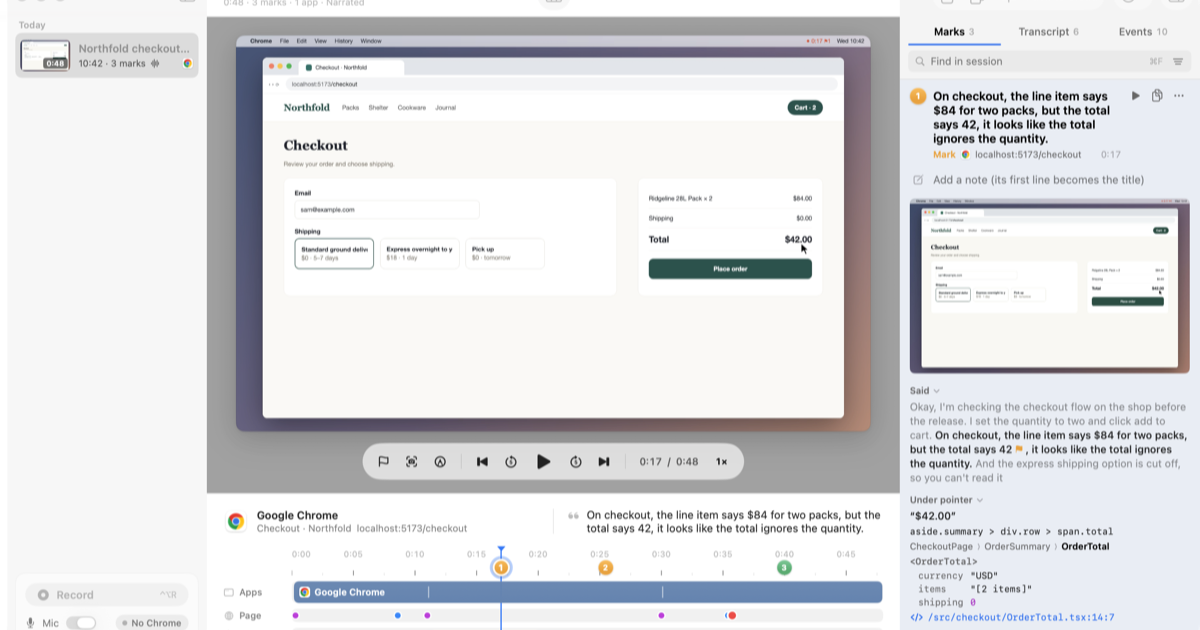
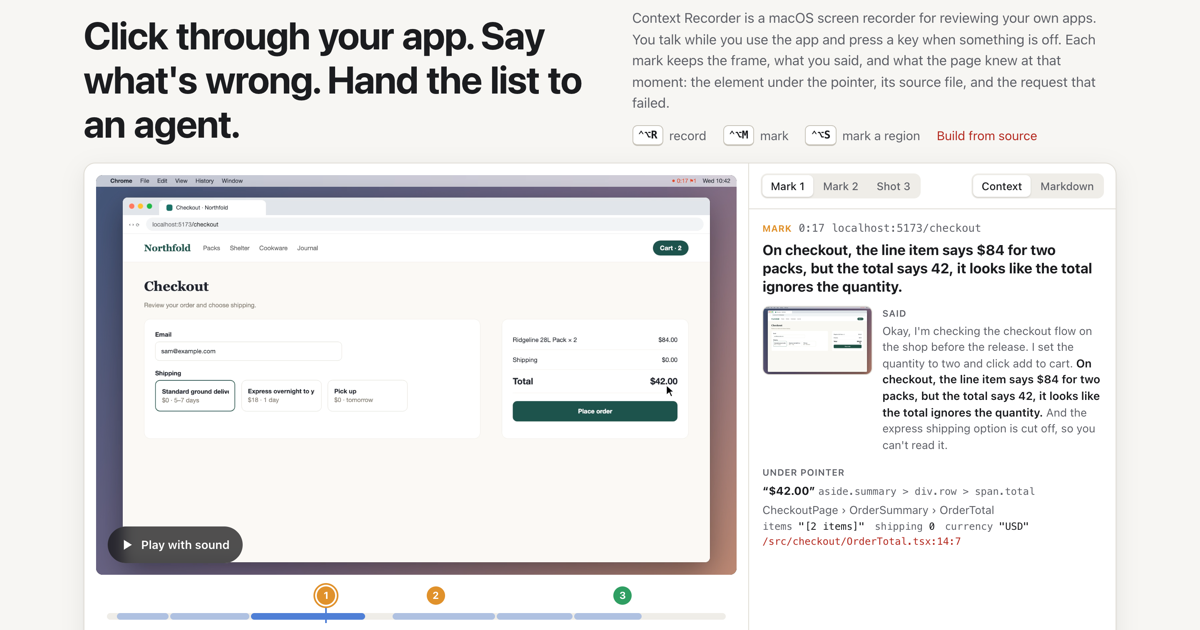
fix(site): 100x craft pass on the home page (#72)
Full-size view opens fitted, zooms on click and pans on drag. The player
shows each mark's frame when the video fails to load, and a rail seek
selects the mark at that time. Tabs move with arrow keys. Markdown has a
file bar and light highlighting. Code blocks lose the double line height,
copy buttons keep their width, and the Build command no longer wraps
mid-word. The hero tracking, key groups and lede measure are fixed, the
player stays side by side down to 900 px, and the phone layout no longer
cuts the inspector. The preview server supports Range requests, so the
video seeks locally. og.png shows the new hero.

diff --git a/site/site.css b/site/site.css
@@ -57,7 +57,7 @@ h1, h2, h3 { margin: 0; line-height: 1.15; letter-spacing: -.02em; }
 h2 { font-size: 30px; }
 h3 { font-size: 15px; letter-spacing: 0; }
 kbd {
-  display: inline-block; min-width: 24px; padding: 1px 6px; margin-right: 5px;
+  display: inline-block; min-width: 24px; padding: 1px 6px;
   font: 600 13px/20px var(--mono); text-align: center; color: var(--text);
   background: var(--panel); border: 1px solid var(--line-strong); border-bottom-width: 2px; border-radius: 6px;
 }
@@ -79,10 +79,10 @@ main > section + section { border-top: 1px solid var(--line); }
 /* Hero */
 .hero { padding-top: 28px !important; }
 .hero-copy { display: grid; grid-template-columns: minmax(0, 1.05fr) minmax(0, 1fr); gap: 14px 48px; align-items: end; margin-bottom: 20px; }
-.hero h1 { font-size: clamp(32px, 4vw, 46px); letter-spacing: -.035em; grid-row: span 2; }
-.lede { margin: 0; color: var(--muted); font-size: 16.5px; }
-.keys { margin: 0; color: var(--muted); font-size: 15px; display: flex; flex-wrap: wrap; align-items: center; gap: 6px 10px; }
-.keys .sep { color: var(--line-strong); }
+.hero h1 { font-size: clamp(32px, 4vw, 46px); letter-spacing: -.025em; word-spacing: .04em; grid-row: span 2; }
+.lede { margin: 0; color: var(--muted); font-size: 16.5px; max-width: 62ch; }
+.keys { margin: 0; color: var(--muted); font-size: 15px; display: flex; flex-wrap: wrap; align-items: center; gap: 8px 20px; }
+.keys > span { display: inline-flex; align-items: center; gap: 7px; white-space: nowrap; }
 
 /* Player */
 .player {
@@ -113,10 +113,11 @@ main > section + section { border-top: 1px solid var(--line); }
   border: 2px solid var(--panel); color: #fff; font: 700 12px/1 -apple-system, system-ui, sans-serif; background: var(--mark);
 }
 .lane.marks button.screenshot { background: var(--shot); }
-.lane.marks button[aria-selected=true] { box-shadow: 0 0 0 2px var(--text); }
+.lane.marks button.on { border-color: var(--panel); box-shadow: 0 0 0 2px var(--mark); }
+.lane.marks button.screenshot.on { box-shadow: 0 0 0 2px var(--shot); }
 .playhead { position: absolute; top: 0; bottom: 0; width: 2px; margin-left: -1px; background: var(--voice); pointer-events: none; }
-.caption { display: flex; gap: 12px; margin: 10px 4px 0; height: 48px; overflow: hidden; font-size: 15px; line-height: 24px; }
-.caption .time { font: 600 13px/24px var(--mono); color: var(--muted); flex: none; width: 36px; }
+.caption { display: flex; align-items: baseline; gap: 12px; margin: 10px 4px 0; height: 48px; overflow: hidden; font-size: 15px; line-height: 24px; }
+.caption .time { font: 600 13px/24px var(--mono); color: var(--muted); flex: none; width: 36px; font-variant-numeric: tabular-nums; }
 
 /* The inspector matches the stage's height and scrolls inside. */
 .inspector { display: flex; flex-direction: column; min-width: 0; height: 0; min-height: 100%; }
@@ -130,7 +131,11 @@ main > section + section { border-top: 1px solid var(--line); }
   background: var(--panel); color: var(--text); box-shadow: 0 1px 2px rgba(0, 0, 0, .14);
 }
 .ins-body { flex: 1; min-height: 0; overflow: auto; padding: 14px 16px; }
-.ins-foot { margin: 0; padding: 10px 16px; border-top: 1px solid var(--line); font-size: 13px; color: var(--muted); }
+.ins-foot { display: flex; flex-wrap: wrap; justify-content: space-between; align-items: center; gap: 4px 12px; margin: 0; padding: 10px 16px; border-top: 1px solid var(--line); font-size: 13px; color: var(--muted); }
+.ins-foot .hint { display: inline-flex; align-items: center; gap: 4px; }
+.ins-foot kbd { font-size: 11px; line-height: 16px; min-width: 20px; padding: 0 4px; }
+.ins-foot kbd + kbd { margin-left: -1px; }
+.ins-foot .hint kbd:nth-of-type(3) { margin-left: 8px; }
 
 .m-head { display: flex; gap: 8px; align-items: center; font: 13px var(--mono); color: var(--muted); min-width: 0; }
 .m-head .dim { overflow: hidden; text-overflow: ellipsis; white-space: nowrap; }
@@ -138,7 +143,7 @@ main > section + section { border-top: 1px solid var(--line); }
 .m-kind.screenshot { color: var(--shot); }
 .m-title { font-size: 17px; line-height: 1.3; margin: 6px 0 12px; }
 .m-grid { display: grid; grid-template-columns: 132px minmax(0, 1fr); gap: 12px; }
-.thumb { padding: 0; border: 1px solid var(--line); border-radius: 6px; overflow: hidden; background: var(--tint); align-self: start; cursor: zoom-in; }
+.thumb { padding: 0; border: 1px solid var(--line); border-radius: 8px; overflow: hidden; background: var(--tint); align-self: start; cursor: zoom-in; }
 .thumb img { display: block; width: 100%; height: auto; }
 .said { font-size: 13.5px; color: var(--muted); line-height: 1.45; }
 .said b { color: var(--text); font-weight: 600; }
@@ -149,31 +154,38 @@ main > section + section { border-top: 1px solid var(--line); }
 .prob .tag { font: 700 12px var(--mono); color: var(--bad); }
 .prob .body { font: 12px/1.4 var(--mono); color: var(--muted); margin-top: 2px; }
 .dim { color: var(--muted); }
-.el { word-break: break-word; margin-bottom: 2px; }
+.el { word-break: break-word; }
+.el + .el, .chain, .props, .src { margin-top: 2px; }
 .el code { color: var(--muted); font-size: 12px; }
 .chain { color: var(--muted); }
 .props { display: flex; flex-wrap: wrap; gap: 2px 12px; font: 12px var(--mono); }
 .props .k { color: var(--muted); }
-.src { display: inline-block; font: 12px var(--mono); color: var(--link); }
+.src { display: block; font: 12px/1.5 var(--mono); color: var(--link); }
+.el .src { display: inline; }
 
-pre { margin: 0; overflow: auto; background: var(--code-bg); border-radius: 8px; }
-pre code { font-size: 12.5px; line-height: 1.5; }
-pre.md { white-space: pre-wrap; word-break: break-word; padding: 12px 14px; }
-.view[data-view=markdown] { position: relative; }
-.view[data-view=markdown] .copy { position: absolute; top: 6px; right: 6px; }
+pre { margin: 0; overflow: auto; background: var(--code-bg); border-radius: 8px; font: 12.5px/1.55 var(--mono); }
+pre code { font: inherit; }
+pre.md { white-space: pre-wrap; word-break: break-word; padding: 12px 14px; color: var(--muted); border-radius: 0 0 8px 8px; }
+pre.md b { color: var(--text); font-weight: 600; }
+pre.md .mk { opacity: .55; }
+pre.md .ic { color: var(--text); }
+.md-bar { display: flex; align-items: center; justify-content: space-between; gap: 8px; padding: 6px 6px 6px 14px; background: var(--code-bg); border-bottom: 1px solid var(--line); border-radius: 8px 8px 0 0; }
+.md-bar code { font-size: 12px; color: var(--muted); }
 
 /* Copy buttons: the label turns into a check for a moment, at the same width. */
 .copy {
-  height: 26px; min-width: 64px; padding: 0 10px; border-radius: 6px; border: 1px solid var(--line-strong);
+  height: 26px; width: 84px; padding: 0; text-align: center; flex: none; border-radius: 6px; border: 1px solid var(--line-strong);
   background: var(--panel); color: var(--text); font: 500 13px/24px -apple-system, system-ui, sans-serif;
 }
 .copy.done { color: var(--shot); border-color: var(--shot); }
 .copy.done span { font-size: 0; }
 .copy.done span::after { content: "✓ Copied"; font-size: 13px; }
 .cmd { position: relative; max-width: 720px; }
-.cmd pre { padding: 12px 96px 12px 14px; white-space: pre-wrap; overflow-wrap: anywhere; }
-.cmd pre code { font-size: 13.5px; }
-.cmd .copy { position: absolute; top: 8px; right: 8px; }
+.cmd pre { padding: 12px 104px 12px 14px; font-size: 13.5px; }
+.cmd > .copy { position: absolute; top: 8px; right: 8px; }
+.cmd.stacked pre { padding-right: 14px; }
+.cmd-head { display: flex; align-items: center; justify-content: space-between; margin-bottom: 8px; }
+.cmd-head h3 { margin: 0; }
 
 /* Sections */
 .sec-head { max-width: 760px; margin-bottom: 22px; }
@@ -200,22 +212,33 @@ pre.md { white-space: pre-wrap; word-break: break-word; padding: 12px 14px; }
 .footer { display: flex; flex-wrap: wrap; gap: 8px 24px; align-items: center; padding: 24px var(--gutter) 40px; border-top: 1px solid var(--line); color: var(--muted); font-size: 14px; }
 
 /* Full-size screenshot */
-.zoom { padding: 0; border: 0; background: transparent; max-width: 96vw; max-height: 94vh; overflow: auto; }
-.zoom::backdrop { background: rgba(10, 10, 12, .84); }
-.zoom img { display: block; width: min(2880px, 160vw); height: auto; border-radius: 8px; }
+.zoom { padding: 0; border: 0; margin: 0; width: 100vw; height: 100vh; max-width: none; max-height: none; background: transparent; overflow: hidden; }
+.zoom::backdrop { background: rgba(10, 10, 12, .88); }
+.zwrap { width: 100%; height: 100%; overflow: auto; display: grid; place-items: center; overscroll-behavior: contain; user-select: none; }
+.zwrap img { display: block; max-width: 94vw; max-height: calc(100vh - 80px); border-radius: 8px; cursor: zoom-in; -webkit-user-drag: none; }
+.zoom.zoomed .zwrap { place-items: start; cursor: grab; }
+.zoom.zoomed .zwrap img { max-width: none; max-height: none; width: 200vw; cursor: zoom-out; margin: 40px; }
+.zhint { position: fixed; left: 50%; bottom: 14px; translate: -50% 0; margin: 0; padding: 4px 12px; border-radius: 14px; background: rgba(20, 20, 22, .8); color: #ddd; font-size: 13px; pointer-events: none; }
 .zoom .close {
   position: fixed; top: 16px; right: 16px; width: 40px; height: 40px; border-radius: 50%; border: 0;
   background: rgba(255, 255, 255, .92); color: #111; font-size: 24px; line-height: 40px;
 }
 
-@media (max-width: 1100px) {
+@media (max-width: 1180px) {
+  .player { grid-template-columns: minmax(0, 1fr) 360px; }
+  .ins-head { flex-wrap: wrap; }
+  .m-grid { grid-template-columns: 96px minmax(0, 1fr); }
+  .install-grid, .features { grid-template-columns: repeat(2, minmax(0, 1fr)); }
+  .install-grid > :last-child { grid-column: 1 / -1; }
+}
+
+@media (max-width: 900px) {
   .player { grid-template-columns: minmax(0, 1fr); }
   .stage { border-right: 0; border-bottom: 1px solid var(--line); }
   .inspector { height: auto; min-height: 0; }
-  .ins-body { height: 460px; flex: none; }
+  .ins-body { flex: none; }
   .hero-copy { grid-template-columns: minmax(0, 1fr); }
   .hero h1 { grid-row: auto; }
-  .install-grid, .features { grid-template-columns: repeat(2, minmax(0, 1fr)); }
 }
 
 @media (max-width: 640px) {
@@ -228,9 +251,12 @@ pre.md { white-space: pre-wrap; word-break: break-word; padding: 12px 14px; }
   .m-grid { grid-template-columns: 96px minmax(0, 1fr); }
   .ins-head { flex-wrap: wrap; }
   .gallery { grid-template-columns: minmax(0, 1fr); }
-  .tabs { overflow-x: auto; }
+  .tabs { flex-wrap: wrap; }
+  .player .play { width: 44px; padding: 0; }
+  .player:not(.playing) .play { padding: 0; }
+  .player:not(.playing) .play::after { content: none; }
   .install-grid, .features { grid-template-columns: minmax(0, 1fr); gap: 20px; }
-  .zoom img { width: 300vw; }
+  .install-grid > :last-child { grid-column: auto; }
 }
 
 /* Controls: one state model for every button and link. */
@@ -248,3 +274,7 @@ button:active { transition-duration: 0ms; }
 .copy:active, .mark-nav button:active, .seg button:active, .tabs button:active, .play:active { scale: .97; }
 :focus-visible { outline: 2px solid var(--accent); outline-offset: 2px; }
 @media (prefers-reduced-motion: reduce) { * { transition: none !important; scroll-behavior: auto !important; } }
+
+/* Without a playable video, the stage is a still of the selected mark's frame. */
+.player.novideo .play { display: none; }
+.player.novideo video { cursor: default; }

diff --git a/site/player.js b/site/player.js
@@ -13,21 +13,62 @@ function flashCopied(btn) {
 }
 async function copy(text, btn) {
   try { await navigator.clipboard.writeText(text); flashCopied(btn); }
-  catch { getSelection()?.selectAllChildren(btn.parentElement.querySelector('code')); }
+  catch { getSelection()?.selectAllChildren(btn.closest('.cmd, .view').querySelector('pre code')); }
 }
 document.querySelectorAll('.cmd[data-copy] .copy').forEach((btn) => {
-  btn.addEventListener('click', () => copy(btn.parentElement.dataset.copy, btn));
+  btn.addEventListener('click', () => copy(btn.closest('.cmd').dataset.copy, btn));
 });
 
-// Full-size view for any screenshot.
+// Full-size view for any screenshot. It opens fitted; a click zooms to 2x at that point, and a drag pans.
 const zoom = $('zoom');
+const zimg = $('zimg');
+const zwrap = zoom.querySelector('.zwrap');
 function openZoom(src, alt) {
-  $('zimg').src = src;
-  $('zimg').alt = alt || '';
+  zimg.src = src;
+  zimg.alt = alt || '';
+  zoom.classList.remove('zoomed');
   zoom.showModal();
 }
+let drag = null;
+zwrap.addEventListener('pointerdown', (e) => {
+  if (e.button !== 0) return;
+  drag = { x: e.clientX, y: e.clientY, left: zwrap.scrollLeft, top: zwrap.scrollTop, moved: false };
+});
+zwrap.addEventListener('pointermove', (e) => {
+  if (!drag || !zoom.classList.contains('zoomed')) return;
+  const dx = e.clientX - drag.x, dy = e.clientY - drag.y;
+  if (Math.abs(dx) + Math.abs(dy) > 4) drag.moved = true;
+  zwrap.scrollLeft = drag.left - dx;
+  zwrap.scrollTop = drag.top - dy;
+});
+zwrap.addEventListener('pointerup', (e) => {
+  const moved = drag?.moved;
+  drag = null;
+  if (moved) return;
+  if (e.target !== zimg) return zoom.close();
+  const r = zimg.getBoundingClientRect();
+  const fx = (e.clientX - r.left) / r.width, fy = (e.clientY - r.top) / r.height;
+  zoom.classList.toggle('zoomed');
+  if (zoom.classList.contains('zoomed')) {
+    const z = zimg.getBoundingClientRect();
+    zwrap.scrollLeft = fx * z.width - (e.clientX - zwrap.getBoundingClientRect().left);
+    zwrap.scrollTop = fy * z.height - (e.clientY - zwrap.getBoundingClientRect().top);
+  }
+});
 $('zclose').addEventListener('click', () => zoom.close());
-zoom.addEventListener('click', (e) => { if (e.target === zoom) zoom.close(); });
+
+// Arrow keys, Home and End move between tabs in any tablist.
+document.addEventListener('keydown', (e) => {
+  const list = e.target.closest?.('[role=tablist]');
+  if (!list || !['ArrowLeft', 'ArrowRight', 'Home', 'End'].includes(e.key)) return;
+  const tabs = [...list.querySelectorAll('[role=tab]')];
+  const i = tabs.indexOf(e.target);
+  const next = { ArrowLeft: i - 1, ArrowRight: i + 1, Home: 0, End: tabs.length - 1 }[e.key];
+  const tab = tabs[(next + tabs.length) % tabs.length];
+  e.preventDefault();
+  tab.focus();
+  tab.click();
+});
 
 // Gallery of app screenshots.
 const SHOTS = {
@@ -98,18 +139,33 @@ function renderContext(mark) {
   $('context').querySelector('.thumb').addEventListener('click', (e) => openZoom(e.currentTarget.dataset.src, 'Mark ' + mark.index));
 }
 
+// Light Markdown highlighting: headings and bold labels in the text color, markup characters dimmed.
+function highlight(md) {
+  return md.split('\n').map((line) => {
+    const e = esc(line);
+    if (/^#{1,6} /.test(line)) return `<span class="mk">${e.match(/^#+/)[0]}</span><b>${e.replace(/^#+/, '')}</b>`;
+    return e
+      .replace(/^(\s*)([-*]|&gt;)( )/, '$1<span class="mk">$2</span>$3')
+      .replace(/\*\*(.+?)\*\*/g, '<span class="mk">**</span><b>$1</b><span class="mk">**</span>')
+      .replace(/`([^`]+)`/g, '<span class="mk">`</span><span class="ic">$1</span><span class="mk">`</span>');
+  }).join('\n');
+}
+
 async function renderMarkdown(mark) {
   const file = `marks/${String(mark.index).padStart(3, '0')}.md`;
+  $('mdfile').textContent = file;
   markdown[file] ??= await fetch(base + file).then((r) => r.text());
-  $('md').textContent = markdown[file];
+  if (session.marks[current] === mark) $('md').innerHTML = highlight(markdown[file]);
 }
 
 function select(i, seek) {
   current = i;
   const mark = session.marks[i];
-  document.querySelectorAll('#marknav button, #marks button').forEach((b) => b.setAttribute('aria-selected', String(+b.dataset.i === i)));
+  document.querySelectorAll('#marknav button').forEach((b) => b.setAttribute('aria-selected', String(+b.dataset.i === i)));
+  document.querySelectorAll('#marks button').forEach((b) => b.classList.toggle('on', +b.dataset.i === i));
   renderContext(mark);
   renderMarkdown(mark);
+  if (player.classList.contains('novideo')) { video.poster = base + mark.frame; last = mark.offsetSeconds; tick(); }
   $('insbody').scrollTop = 0;
   if (seek) {
     // Before the video has its metadata, a seek is dropped, so wait for it.
@@ -126,9 +182,13 @@ function setView(v) {
 document.querySelectorAll('.seg [role=tab]').forEach((b) => b.addEventListener('click', () => setView(b.dataset.view)));
 $('copymd').addEventListener('click', (e) => copy($('md').textContent, e.currentTarget));
 
+// Without a playable video (no H.264 in some browsers), the stage shows each mark's frame instead.
+const noVideo = () => { player.classList.add('novideo'); if (session) select(current, false); };
+video.addEventListener('error', noVideo);
+if (video.error) noVideo();
+
 let last = 0;
-function tick() {
-  const t = video.currentTime;
+function tick(t = player.classList.contains('novideo') ? last : video.currentTime) {
   const pct = (t / session.duration) * 100;
   $('playhead').style.left = pct + '%';
   $('clock').textContent = clock(t);
@@ -148,13 +208,16 @@ $('play').addEventListener('click', togglePlay);
 video.addEventListener('click', togglePlay);
 video.addEventListener('play', () => { player.classList.add('playing'); $('play').setAttribute('aria-label', 'Pause'); loop(); });
 video.addEventListener('pause', () => { player.classList.remove('playing'); $('play').setAttribute('aria-label', 'Play with sound'); tick(); });
-video.addEventListener('seeked', tick);
+video.addEventListener('seeked', () => tick());
 
 $('rail').addEventListener('pointerdown', (e) => {
   if (e.target.closest('button')) return;
   const r = $('rail').getBoundingClientRect();
-  video.currentTime = Math.max(0, Math.min(1, (e.clientX - r.left) / r.width)) * session.duration;
-  last = video.currentTime;
+  const t = Math.max(0, Math.min(1, (e.clientX - r.left) / r.width)) * session.duration;
+  video.currentTime = last = t;
+  // The inspector shows the last mark at or before the new time.
+  const before = session.marks.filter((m) => m.offsetSeconds <= t + 0.25);
+  select(before.length ? session.marks.indexOf(before.at(-1)) : 0, false);
   tick();
 });
 
@@ -170,9 +233,9 @@ fetch(base + 'session.json').then((r) => r.json()).then((data) => {
   session = data;
   const pos = (t) => `${(t / session.duration) * 100}%`;
   $('voice').innerHTML = session.transcript.map((s) => `<span style="left:${pos(s.start)};width:calc(${pos(s.end - s.start)} - 2px)"></span>`).join('');
-  const btn = (m, i, label) => `<button type="button" role="tab" data-i="${i}" class="${m.kind}" aria-selected="false" aria-label="Mark ${m.index} at ${clock(m.offsetSeconds)}">${label}</button>`;
-  $('marks').innerHTML = session.marks.map((m, i) => btn(m, i, m.index).replace('<button', `<button style="left:${pos(m.offsetSeconds)}"`)).join('');
-  $('marknav').innerHTML = session.marks.map((m, i) => btn(m, i, `${m.kind === 'screenshot' ? 'Shot' : 'Mark'} ${m.index}`)).join('');
+  const name = (m) => `${m.kind === 'screenshot' ? 'Shot' : 'Mark'} ${m.index}`;
+  $('marks').innerHTML = session.marks.map((m, i) => `<button type="button" tabindex="-1" data-i="${i}" class="${m.kind}" style="left:${pos(m.offsetSeconds)}" aria-label="${name(m)} at ${clock(m.offsetSeconds)}">${m.index}</button>`).join('');
+  $('marknav').innerHTML = session.marks.map((m, i) => `<button type="button" role="tab" data-i="${i}" aria-selected="false">${name(m)}</button>`).join('');
   document.querySelectorAll('#marknav button, #marks button').forEach((b) => b.addEventListener('click', () => { video.pause(); select(+b.dataset.i, true); }));
   select(0, true);
 });

diff --git a/site/index.html b/site/index.html
@@ -32,7 +32,7 @@
     <div class="hero-copy">
       <h1>Click through your app. Say what's wrong. Hand the list to an agent.</h1>
       <p class="lede">Context Recorder is a macOS screen recorder for reviewing your own apps. You talk while you use the app and press a key when something is off. Each mark keeps the frame, what you said, and what the page knew at that moment: the element under the pointer, its source file, and the request that failed.</p>
-      <p class="keys"><kbd>⌃⌥R</kbd> record <kbd>⌃⌥M</kbd> mark <kbd>⌃⌥S</kbd> mark a region <span class="sep">·</span> <a href="#install">Build from source</a></p>
+      <p class="keys"><span><kbd>⌃⌥R</kbd>record</span><span><kbd>⌃⌥M</kbd>mark</span><span><kbd>⌃⌥S</kbd>mark a region</span><a href="#install">Build from source</a></p>
     </div>
 
     <div id="demo" class="player" data-session="demo/">
@@ -60,11 +60,11 @@
         <div class="ins-body" id="insbody">
           <div class="view" data-view="context" id="context"></div>
           <div class="view" data-view="markdown" hidden>
-            <button type="button" class="copy" id="copymd" aria-label="Copy this mark as Markdown"><span>Copy</span></button>
+            <div class="md-bar"><code id="mdfile">marks/001.md</code><button type="button" class="copy" id="copymd" aria-label="Copy this mark as Markdown"><span>Copy</span></button></div>
             <pre class="md"><code id="md"></code></pre>
           </div>
         </div>
-        <p class="ins-foot">A staged 48-second session of a demo shop, processed by the app. <a href="demo/viewer.html">Open it in the full browser viewer</a></p>
+        <p class="ins-foot"><a href="demo/viewer.html">Open in the browser viewer</a><span class="hint"><kbd>J</kbd><kbd>K</kbd>marks <kbd>Space</kbd>play</span></p>
       </aside>
     </div>
   </section>
@@ -124,14 +124,13 @@
         </ul>
       </div>
       <div>
-        <h3>Build</h3>
-        <div class="cmd" data-copy="git clone https://github.com/byronwall/context-recorder
+        <div class="cmd stacked" data-copy="git clone https://github.com/byronwall/context-recorder
 cd context-recorder
 ./scripts/build-app.sh">
+          <div class="cmd-head"><h3>Build</h3><button type="button" class="copy" aria-label="Copy commands"><span>Copy</span></button></div>
           <pre><code>git clone https://github.com/byronwall/context-recorder
 cd context-recorder
 ./scripts/build-app.sh</code></pre>
-          <button type="button" class="copy" aria-label="Copy commands"><span>Copy</span></button>
         </div>
       </div>
       <div>
@@ -153,7 +152,8 @@ cd context-recorder
 </footer>
 
 <dialog id="zoom" class="zoom" aria-label="Screenshot at full size">
-  <img id="zimg" src="" alt="">
+  <div class="zwrap"><img id="zimg" src="" alt=""></div>
+  <p class="zhint">Click to zoom · drag to pan · Esc to close</p>
   <button type="button" class="close" id="zclose" aria-label="Close">×</button>
 </dialog>
 </body>
